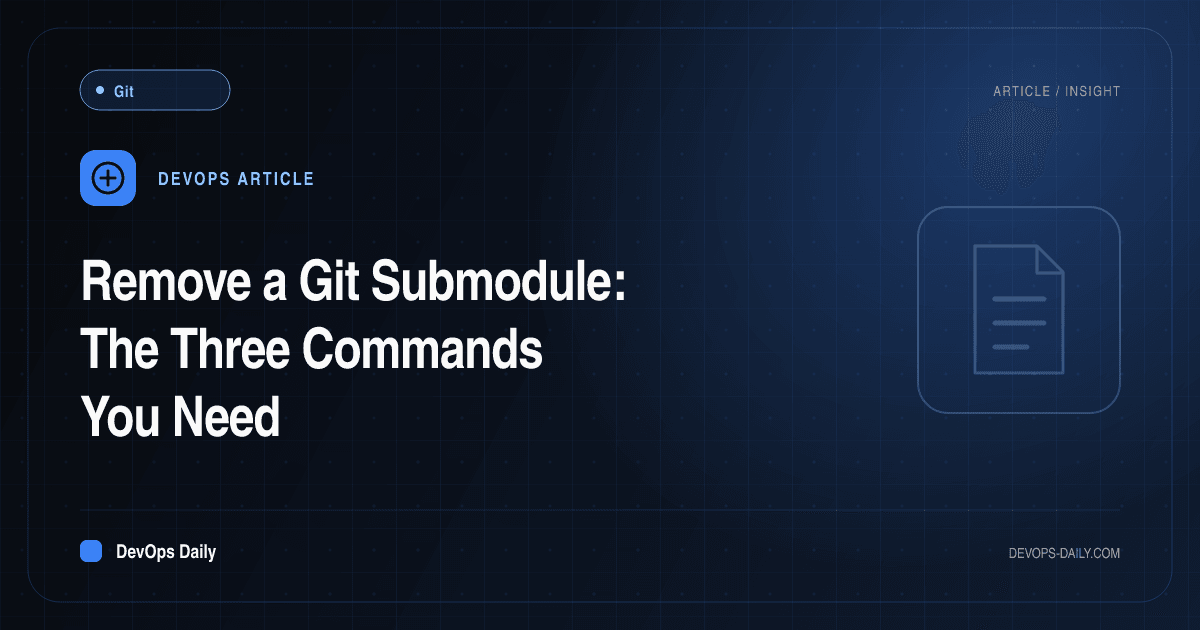
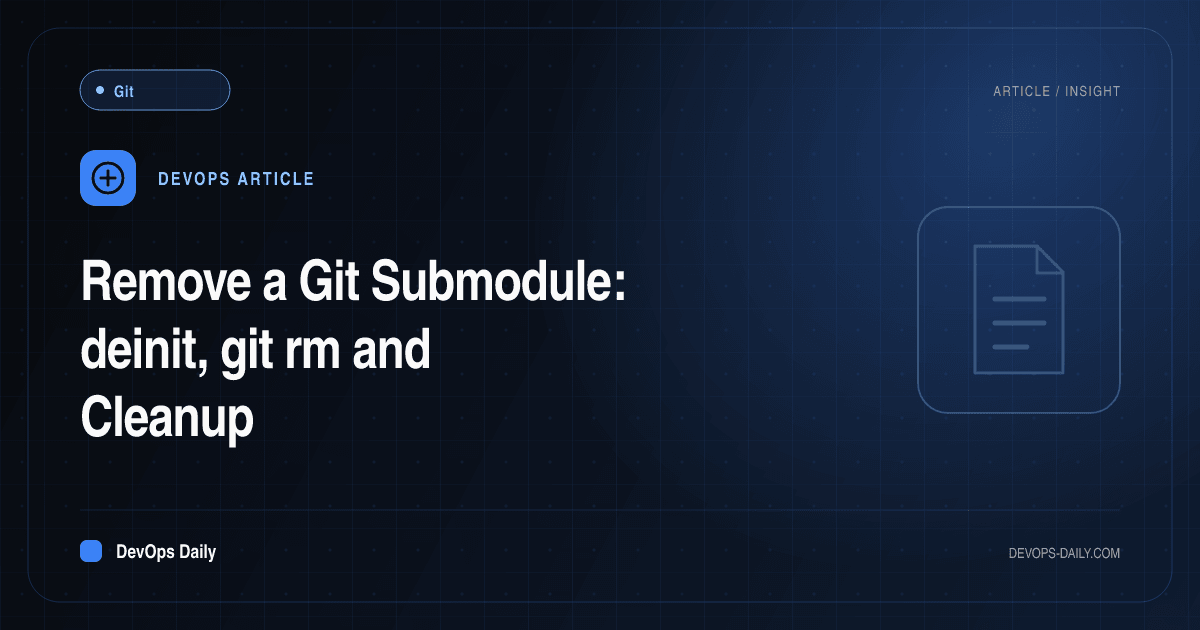
Tighten the new snippets after review: ORIG_HEAD check, host-gateway listen address, netstat match, submodule data dir
Claude-Session: https://claude.ai/code/session_01FRYkaYp9vFJjWBjAQdjnQ4

Changed region(s): [[0.0617, 0.5127, 0.4625, 0.7238]]

diff --git a/content/posts/undo-git-rebase.md b/content/posts/undo-git-rebase.md
@@ -1,6 +1,6 @@
 ---
 title: 'How to Undo a Git Rebase with ORIG_HEAD or reflog'
-excerpt: 'Just rebased? git reset --hard ORIG_HEAD restores the branch. Later, find the old commit in git reflog and reset to it. Mid-rebase: git rebase --abort.'
+excerpt: 'Just rebased? Check git log -1 ORIG_HEAD, then run git reset --hard ORIG_HEAD. Otherwise find the old commit in git reflog. Mid-rebase: git rebase --abort.'
 category:
   name: 'Git'
   slug: 'git'
@@ -19,7 +19,7 @@ tags:
   - Troubleshooting
 ---
 
-**TLDR:** Right after a rebase, `git reset --hard ORIG_HEAD` puts your branch back where it was, because Git saves the pre-rebase tip in `ORIG_HEAD`. If you have run other commands since, use `git reflog` to find the commit hash before the rebase started (look for the entry right before the rebase), then run `git reset --hard <commit-hash>` to restore your branch to that state. If you're in the middle of a rebase, use `git rebase --abort` instead.
+**TLDR:** Right after a rebase finishes, `git reset --hard ORIG_HEAD` usually puts your branch back, because Git saves the pre-rebase tip in `ORIG_HEAD`. Check it first with `git log -1 ORIG_HEAD`, since some steps during a rebase, such as a reset while splitting a commit, overwrite it. Otherwise, use `git reflog` to find the commit hash before the rebase started (look for the entry right before the rebase), then run `git reset --hard <commit-hash>` to restore your branch to that state. If you're in the middle of a rebase, use `git rebase --abort` instead.
 
 A rebase operation rewrites your commit history, and sometimes it does not go as planned. You might end up with conflicts you cannot resolve, lose commits you wanted to keep, or simply realize you rebased the wrong branch. The good news is that Git keeps track of your branch's previous state, making it possible to undo a rebase.
 
@@ -92,7 +92,7 @@ If the rebase just finished and you have not run anything else since, the quicke
 git reset --hard ORIG_HEAD
 ```
 
-`ORIG_HEAD` is overwritten by other commands that move `HEAD` a long way, such as `git reset`, `git merge` or another rebase, so use it right away. In every other case, use the reflog to find where your branch was before:
+Check what it points to first with `git log -1 ORIG_HEAD`. Commands such as `git reset`, `git merge` or another rebase overwrite it, and so does a reset you ran while editing or splitting a commit during the rebase. If it does not point to your old branch tip, use the reflog to find where your branch was before:
 
 ```bash
 # View the reflog

diff --git a/content/posts/how-to-close-tcp-and-udp-ports-via-windows-command-line.md b/content/posts/how-to-close-tcp-and-udp-ports-via-windows-command-line.md
@@ -1,12 +1,12 @@
 ---
 title: 'Close a Port on Windows from the Command Line'
-excerpt: 'Find the process with netstat -ano | findstr :PORT, then end it with taskkill /PID <pid> /F. To block the port instead, add a netsh advfirewall rule.'
+excerpt: 'Find the PID with netstat -ano | findstr :PORT, checking the Local Address column, then end it with taskkill /PID <pid> /F, or block the port with netsh.'
 category:
   name: 'Networking'
   slug: 'networking'
 date: '2025-03-28'
 publishedAt: '2025-03-28T13:00:00Z'
-updatedAt: '2026-03-01T09:00:00Z'
+updatedAt: '2026-10-11T09:00:00Z'
 readingTime: '7 min read'
 author:
   name: 'DevOps Daily Team'
@@ -21,7 +21,7 @@ tags:
 
 ## TLDR
 
-Find the process using a port with `netstat -ano | findstr :PORT`, then kill it with `taskkill /PID <pid> /F`. To block a port with Windows Firewall, use `netsh advfirewall firewall add rule` to create a blocking rule. For services, use `net stop` or `sc stop` to stop the service listening on the port.
+Find the process using a port with `netstat -ano | findstr :PORT`, and check that the match is in the Local Address column (`:80` also matches `:8080` and remote port 80). Then kill it with `taskkill /PID <pid> /F`. To block a port with Windows Firewall, use `netsh advfirewall firewall add rule` to create a blocking rule. For services, use `net stop` or `sc stop` to stop the service listening on the port.
 
 When a port is in use on Windows, you might need to close it to free it for another application, resolve conflicts, or improve security. Unlike Linux where you can directly kill processes bound to ports, Windows requires identifying the process first, then either stopping it or blocking the port via firewall rules.
 

diff --git a/content/posts/connect-to-host-localhost-from-docker.md b/content/posts/connect-to-host-localhost-from-docker.md
@@ -1,6 +1,6 @@
 ---
 title: "Docker: Connect to the Host's localhost from a Container"
-excerpt: 'Use host.docker.internal instead of localhost. Docker Desktop resolves it by default; on Linux, add --add-host=host.docker.internal:host-gateway.'
+excerpt: 'Use host.docker.internal, not localhost. Docker Desktop resolves it; on Linux add --add-host=host.docker.internal:host-gateway or use --network host.'
 category:
   name: 'Docker'
   slug: 'docker'
@@ -14,7 +14,7 @@ author:
 tags: ['docker', 'networking', 'containers', 'localhost']
 ---
 
-Inside a container, `localhost` means the container itself, so use `host.docker.internal` instead to reach a service on your machine. Docker Desktop resolves that name by default. With Docker Engine on Linux, start the container with `--add-host=host.docker.internal:host-gateway`, or use `--network host`.
+Inside a container, `localhost` means the container itself, so use `host.docker.internal` instead to reach a service on your machine. Docker Desktop resolves that name by default. With Docker Engine on Linux, start the container with `--add-host=host.docker.internal:host-gateway`, and make sure the service listens on an address the container can reach, such as `0.0.0.0`, not only `127.0.0.1`. For a service bound to `127.0.0.1` only, run the container with `--network host` and connect to `localhost`.
 
 When working with Docker containers, you'll often need to connect to services running on your host machine. This guide explains the different approaches to accessing your host machine's localhost from inside a container and helps you choose the right method for your use case.
 

diff --git a/content/posts/remove-git-submodule.md b/content/posts/remove-git-submodule.md
@@ -1,6 +1,6 @@
 ---
-title: 'Remove a Git Submodule: The Three Commands You Need'
-excerpt: 'Run git submodule deinit -f path, git rm -f path and rm -rf .git/modules/path, then commit. That also clears the entries in .gitmodules and .git/config.'
+title: 'Remove a Git Submodule: deinit, git rm and Cleanup'
+excerpt: 'Run git submodule deinit -f path, then git rm -f path, and commit. To delete the leftover Git data too, remove .git/modules/<name>, usually the same path.'
 category:
   name: 'Git'
   slug: 'git'
@@ -19,7 +19,7 @@ tags:
   - Development
 ---
 
-**TLDR:** To remove a Git submodule, run `git submodule deinit -f path/to/submodule`, then `git rm -f path/to/submodule`, then `rm -rf .git/modules/path/to/submodule`, and commit. `deinit` removes the entry from `.git/config`, `git rm` removes the folder and the entry in `.gitmodules`, and the last step deletes the submodule's stored Git data.
+**TLDR:** To remove a Git submodule, run `git submodule deinit -f path/to/submodule`, then `git rm -f path/to/submodule`, and commit. `deinit` clears its entry in `.git/config`, and `git rm` removes the folder and its entry in `.gitmodules`. To delete the submodule's leftover Git data as well, remove `.git/modules/<name>`, where the name is usually the same as the path (check `.gitmodules` before you remove it).
 
 Git submodules can become unnecessary as projects evolve. Maybe you've decided to copy the code directly into your repository, or you're switching to a different dependency management approach. Removing a submodule requires more than just deleting the directory.
 

diff --git a/content/posts/see-differences-between-branches-git.md b/content/posts/see-differences-between-branches-git.md
@@ -6,7 +6,7 @@ category:
   slug: 'git'
 date: '2024-12-28'
 publishedAt: '2024-12-28T10:00:00Z'
-updatedAt: '2025-11-23T09:00:00Z'
+updatedAt: '2026-10-11T09:00:00Z'
 readingTime: '6 min read'
 author:
   name: 'DevOps Daily Team'
@@ -19,7 +19,7 @@ tags:
   - Version Control
 ---
 
-**TLDR:** To see differences between branches, use `git diff branch1..branch2` to show file changes, `git log branch1..branch2` to show commit differences, or `git diff --name-only branch1 branch2` to list changed filenames. The two-dot syntax (`..`) shows differences, while three-dot (`...`) shows changes since the branches diverged.
+**TLDR:** To see differences between branches, use `git diff branch1..branch2` to show file changes, `git log branch1..branch2` to show commit differences, or `git diff --name-only branch1 branch2` to list changed filenames. With `git diff`, `main...feature` shows only what changed on feature since it split from main; with `git log`, `main...feature` lists the commits on either side that the other lacks.
 
 Before merging a feature branch, reviewing a pull request, or understanding what changed between releases, you need to see what differs between two branches. Git provides several commands to compare branches at different levels of detail.
 

diff --git a/content/posts/view-file-change-history-git.md b/content/posts/view-file-change-history-git.md
@@ -1,6 +1,6 @@
 ---
 title: 'Git File History: See Every Change Made to a File'
-excerpt: 'Run git log --follow -p -- path/to/file to see every commit that changed a file, with its diff, even across renames. git blame shows who changed each line.'
+excerpt: 'Run git log --follow -p -- path/to/file to list the commits that changed a file, with patches, across renames. git blame shows who last changed each line.'
 category:
   name: 'Git'
   slug: 'git'

diff --git a/content/posts/git-fetch-remote-branch.md b/content/posts/git-fetch-remote-branch.md
@@ -1,6 +1,6 @@
 ---
 title: 'Git Fetch a Remote Branch and Check It Out Locally'
-excerpt: 'Run git fetch origin branch-name, then git switch branch-name to get a local branch that tracks origin/branch-name. git fetch origin gets every branch.'
+excerpt: 'Run git fetch origin branch-name, then git switch branch-name for a local branch that tracks origin/branch-name, or git switch --track origin/branch-name.'
 category:
   name: 'Git'
   slug: 'git'
